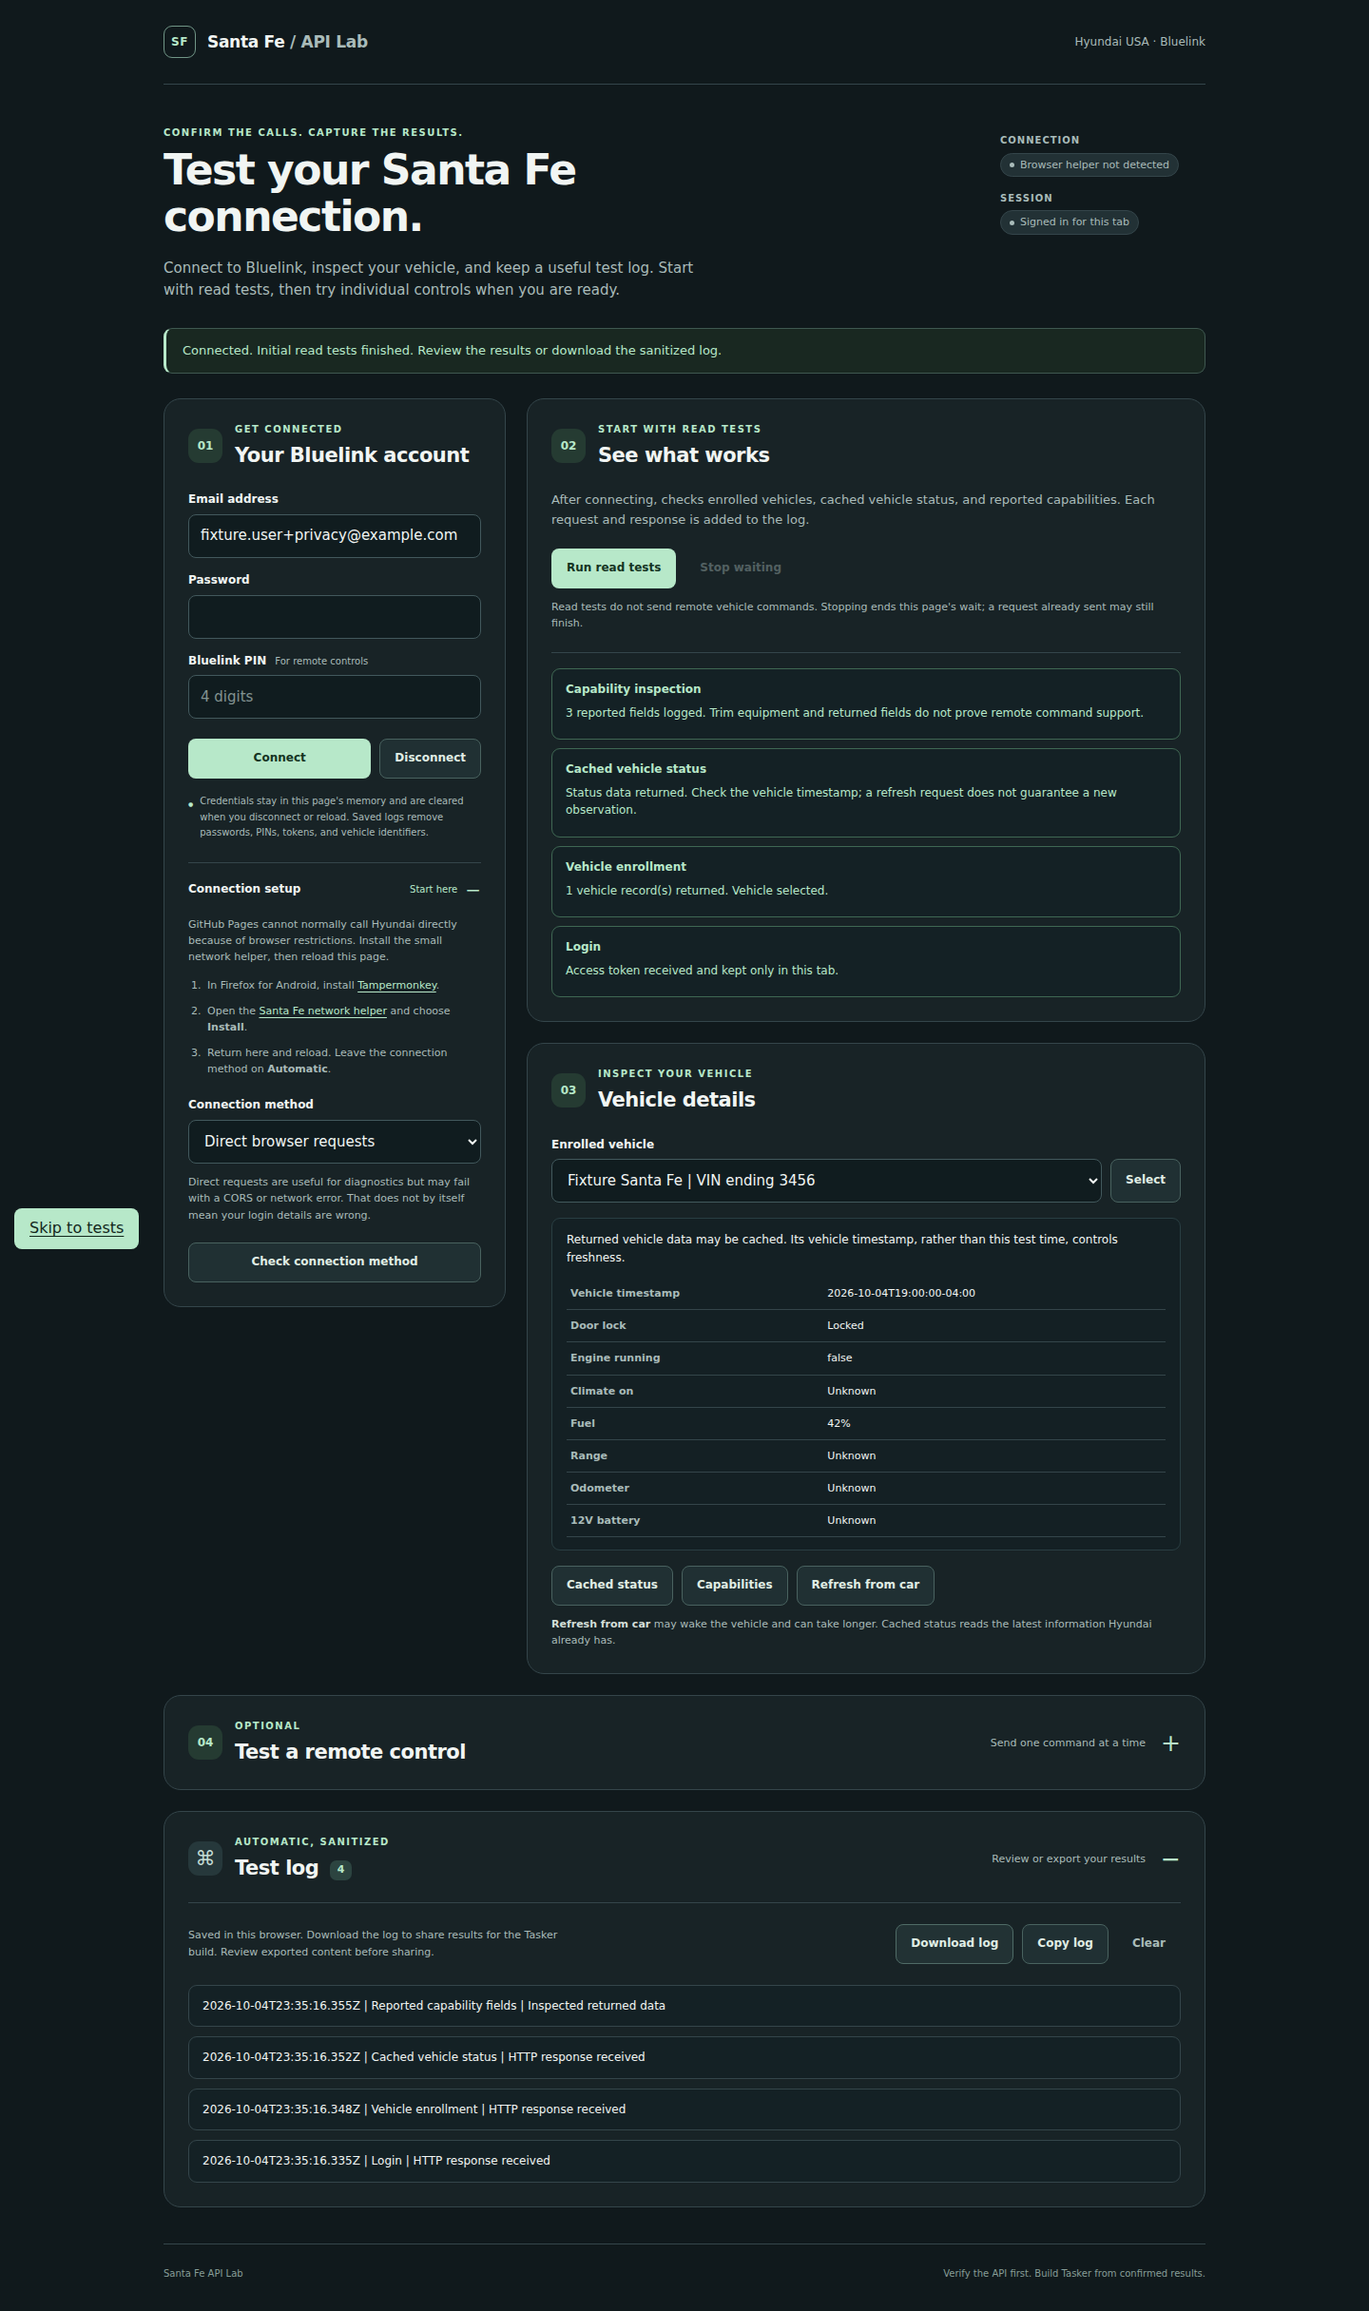
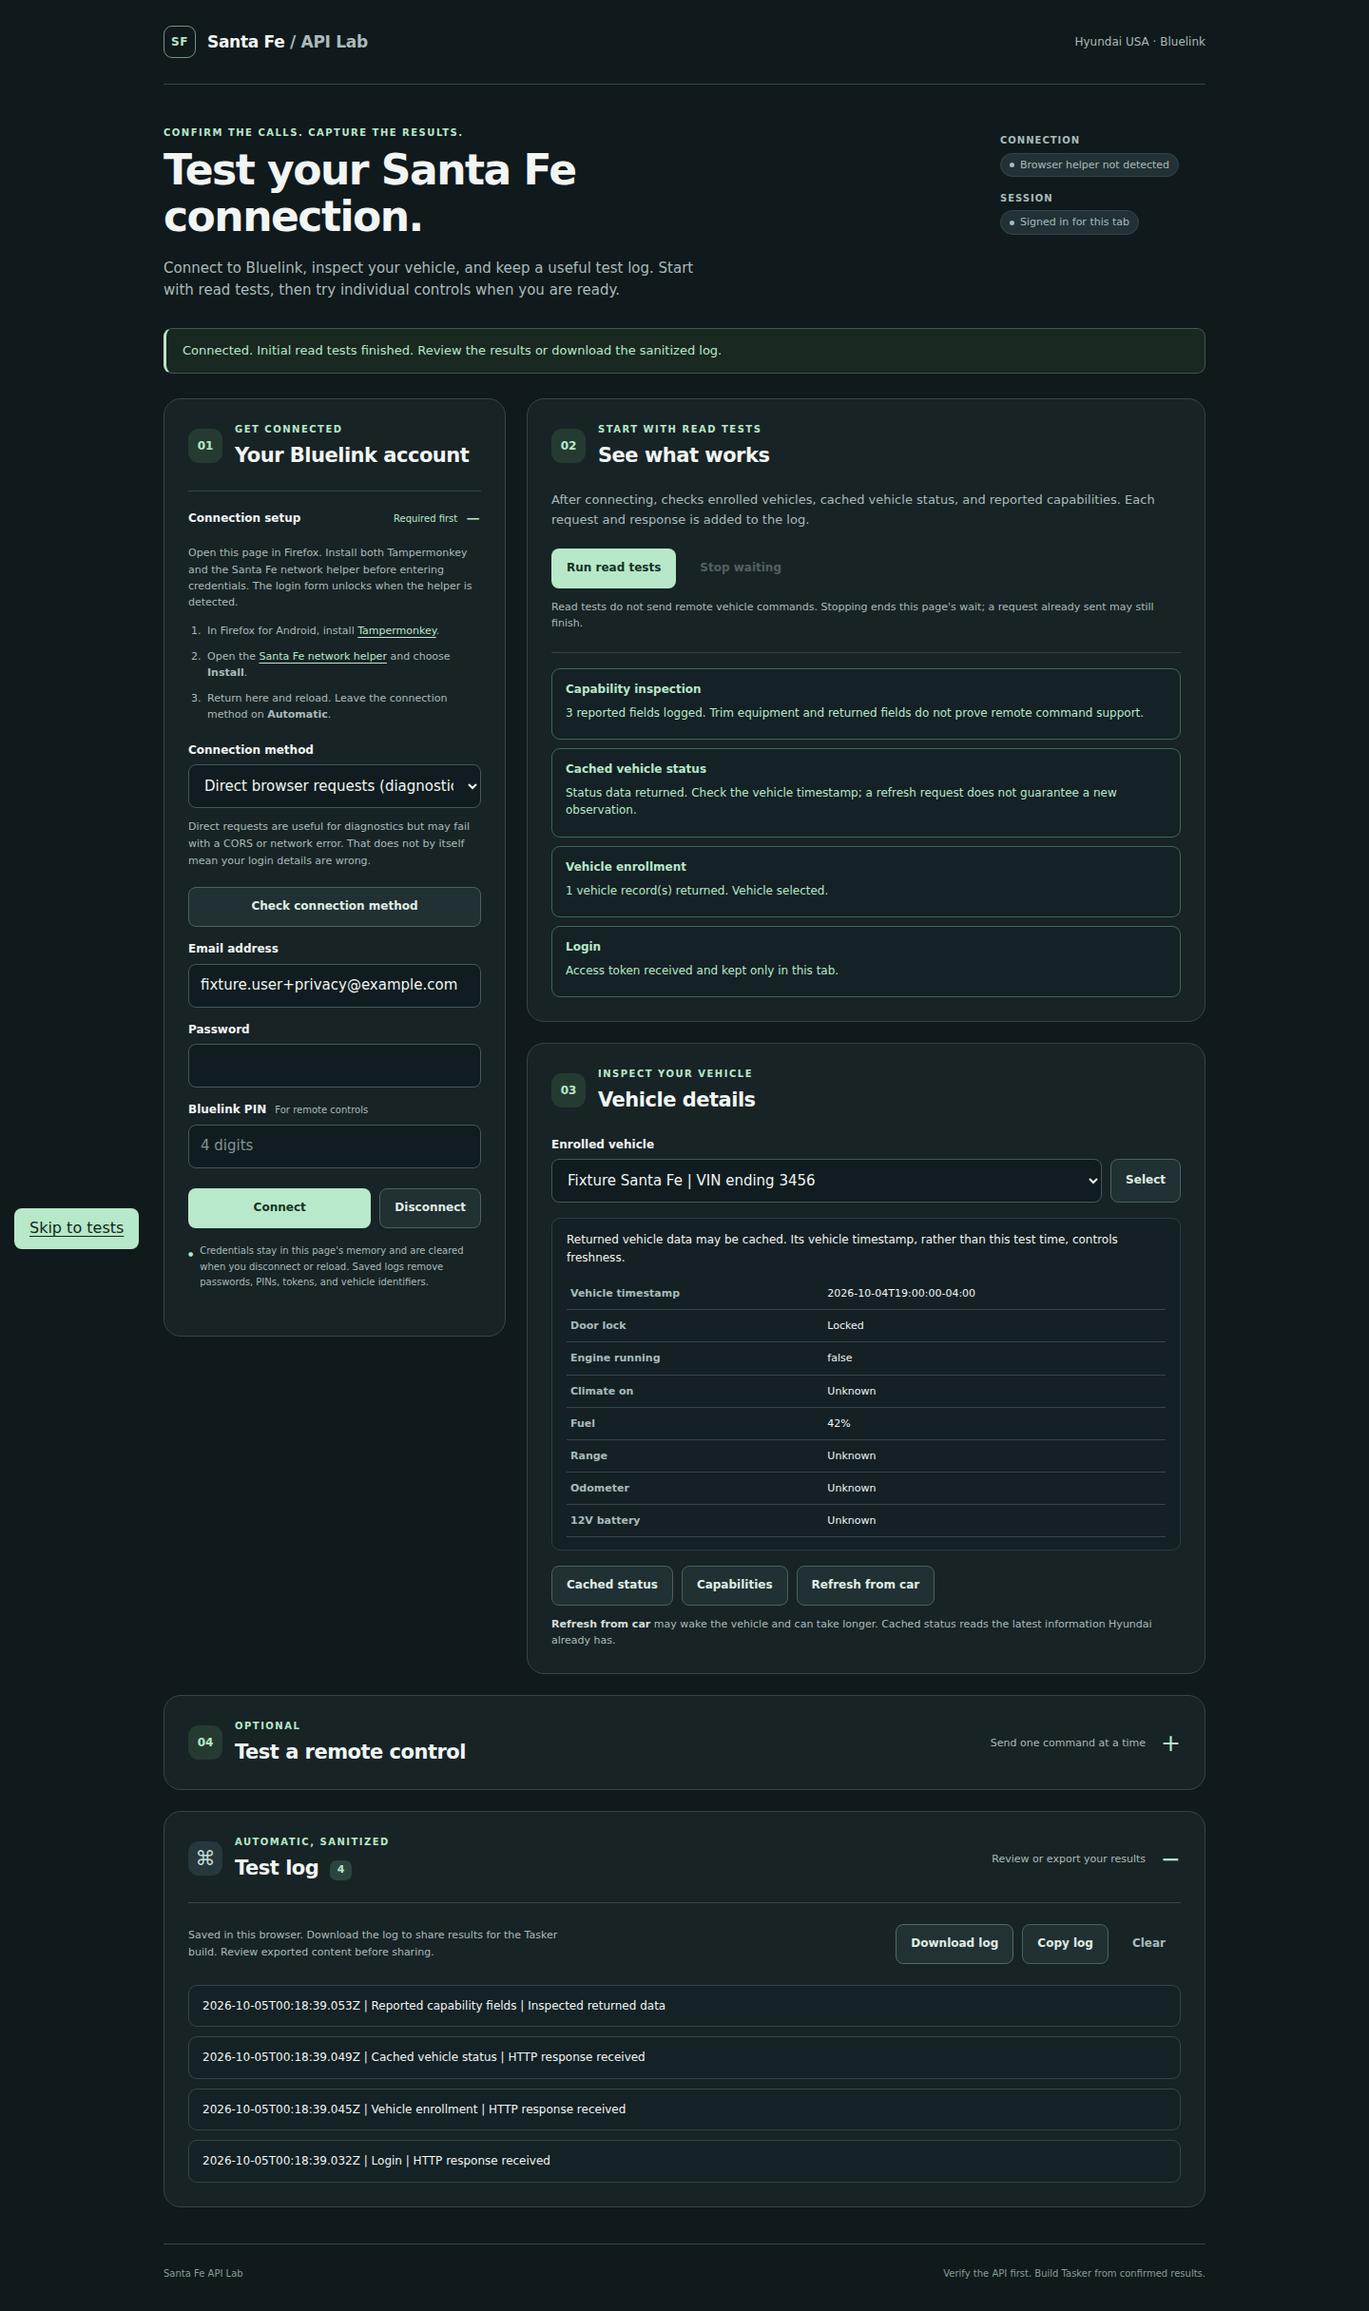
Require Santa Fe browser helper before account login

Changed region(s): [[0.125, 0.216, 0.3438, 0.5553], [0.1875, 0.8638, 0.25, 0.8947]]

diff --git a/SantaFe/diagnostic.js b/SantaFe/diagnostic.js
@@ -5,7 +5,7 @@
   const API = BASE + '/ac/v2/';
   const LOGIN = BASE + '/v2/ac/oauth/token';
   const LOG_KEY = 'santafe-diagnostics-v1';
-  const VERSION = '0.2.0';
+  const VERSION = '0.2.1';
   const SOURCE = '82801884bdf619c5f2a35ff6bbae1693d2e1a3e8';
   const $ = id => document.getElementById(id);
   const sensitive = /password|secret|token|authorization|cookie|pin|vin|regid|registration.?id|username|user.?name|user.?id|login.?id|email|e.?mail|address|phone|mobile|contact|customer|subscriber|owner|first.?name|last.?name|full.?name|nick.?name|birth|latitude|longitude|coord|location|gps|tms.?tid|transaction.?id|^tid$|^xid$|^name$|image|photo|postal|zip.?code|^city$|^state$|street|license|licence|account.?id|person/i;
@@ -67,6 +67,9 @@
   function updateSession() {
     $('sessionStatus').textContent=session?'Signed in for this tab':'Signed out';
     $('transportStatus').textContent=helperAvailable?'Browser helper ready':'Browser helper not detected';
+    const needsHelper=!helperAvailable && $('transportMode').value!=='direct';
+    for(const id of ['email','password','pin','loginBtn'])$(id).disabled=busy || needsHelper;
+    $('loginBtn').textContent=needsHelper?'Install helper first':'Connect';
     if(!busy) {
       $('vehicleSelect').disabled=!session || vehicles.length===0;
       for(const id of ['runReadTestsBtn','selectVehicleBtn']) $(id).disabled=!session;
@@ -76,10 +79,16 @@
       $('disconnectBtn').disabled=!session;
     }
   }
+  function setupNotice() {
+    if(session || busy)return;
+    if(helperAvailable)notice('Browser helper ready. Enter your Bluelink details and tap Connect.','success');
+    else if($('transportMode').value==='direct')notice('Direct mode is for diagnostics. Hyundai blocked this browser request in testing; use Firefox and the helper for login.','warning');
+    else notice('Set up the browser helper before entering your login details. Open this page in Firefox and follow Connection setup below.','warning');
+  }
   window.addEventListener('message',event=>{
     const msg=event.data;
     if(event.source!==window || event.origin!==location.origin || !msg || msg.type!=='SF_HELPER_RESPONSE' || msg.channel!==channel) return;
-    if(msg.id==='hello') {helperAvailable=msg.version==='1';updateSession();return;}
+    if(msg.id==='hello') {helperAvailable=msg.version==='1';updateSession();setupNotice();return;}
     const item=pending.get(msg.id); if(!item)return;
     pending.delete(msg.id); clearTimeout(item.timer); item.cleanup();
     if(msg.error)item.reject(new Error(msg.error));else item.resolve(msg.response);
@@ -89,6 +98,7 @@
 
   async function send(spec,signal) {
     const mode=$('transportMode').value;
+    if(mode!=='direct' && !helperAvailable)throw new Error('Browser helper not detected. In Firefox, install Tampermonkey and the Santa Fe network helper, then reload this page. No request was sent.');
     if(mode==='helper' || (mode==='auto' && helperAvailable)) {
       if(!helperAvailable)throw new Error('Install the browser helper, reload this page, and check that Browser helper ready appears.');
       currentTransport='browser helper';
@@ -183,6 +193,7 @@
     result('Capability inspection',`${paths.length} reported fields logged. Trim equipment and returned fields do not prove remote command support.`);
   }
   async function login() {
+    if($('transportMode').value!=='direct' && !helperAvailable){$('password').value='';$('pin').value='';throw new Error('Install the browser helper in Firefox before signing in. No login request was sent.');}
     if(transaction&&!transaction.done)throw new Error('A command is awaiting confirmation of its outcome. Check its result before starting another session.');
     session=null;selected=null;vehicles=[];enrollment=null;lastStatus=null;statusRead=false;evidence=[];
     const username=$('email').value.trim(),password=$('password').value,pin=$('pin').value.trim();
@@ -257,13 +268,13 @@
   $('capabilitiesBtn').addEventListener('click',()=>task(async()=>capabilities()));
   $('commandBtn').addEventListener('click',()=>task(command));$('pollBtn').addEventListener('click',()=>task(poll));
   $('disconnectBtn').addEventListener('click',disconnect);
-  $('connectionTestBtn').addEventListener('click',()=>task(async()=>{const r=await request('Connection check (no login)','GET',LOGIN,null,{},false,false,true);result('Connection response',`Hyundai returned HTTP ${r.status}. This checks whether a response is readable, not whether your credentials work.`);notice('Connection check logged.');}));
+  $('connectionTestBtn').addEventListener('click',()=>{ping();if(!helperAvailable && $('transportMode').value!=='direct'){setupNotice();return;}task(async()=>{const r=await request('Connection check (no login)','GET',LOGIN,null,{},false,false,true);result('Connection response',`Hyundai returned HTTP ${r.status}. This checks whether a response is readable, not whether your credentials work.`);notice('Connection check logged.');});});
   $('stopBtn').addEventListener('click',()=>{stopped=true;controller?.abort();notice('Stopped locally. A submitted remote command cannot be recalled; no retry will run.','warning');});
   $('downloadLogBtn').addEventListener('click',()=>{const url=URL.createObjectURL(new Blob([report()],{type:'application/json'}));const a=node('a');a.href=url;a.download='SantaFe-test-log-'+new Date().toISOString().replaceAll(':','-')+'.json';a.click();setTimeout(()=>URL.revokeObjectURL(url),1000);});
   $('copyLogBtn').addEventListener('click',async()=>{try{await navigator.clipboard.writeText(report());notice('Sanitized log copied.');}catch{notice('Clipboard unavailable. Use Download log instead.','warning');}});
   $('clearLogBtn').addEventListener('click',()=>{if(!window.confirm('Delete the saved sanitized test log?'))return;logs=[];evidence=[];try{localStorage.removeItem(LOG_KEY);}catch{}renderLog();notice('Saved test log cleared.');});
-  $('transportMode').addEventListener('change',updateSession);
+  $('transportMode').addEventListener('change',()=>{updateSession();setupNotice();});
   try{const saved=JSON.parse(localStorage.getItem(LOG_KEY)||'[]');if(Array.isArray(saved))logs=saved.slice(-150).map(v=>redact(v));}catch{}
   window.addEventListener('pagehide',()=>{session=null;selected=null;vehicles=[];enrollment=null;lastStatus=null;privateValues.clear();for(const id of ['email','password','pin'])$(id).value='';controller?.abort();});
-  renderLog();setBusy(false);
+  renderLog();setBusy(false);setupNotice();
 })();

diff --git a/SantaFe/index.html b/SantaFe/index.html
@@ -30,29 +30,15 @@
         </div>
       </section>
 
-      <div id="notice" class="notice" role="status" aria-live="polite">Enter your Bluelink details to begin. Vehicle controls never run automatically.</div>
+      <div id="notice" class="notice" role="status" aria-live="polite">Complete Connection setup first. The login form unlocks when the browser helper is ready.</div>
 
       <div class="workspace-grid">
         <section class="panel connect-panel" aria-labelledby="connectTitle">
           <div class="panel-heading"><span class="step-number">01</span><div><p class="eyebrow">GET CONNECTED</p><h2 id="connectTitle">Your Bluelink account</h2></div></div>
-          <form id="loginForm">
-            <label for="email">Email address</label>
-            <input id="email" name="email" type="email" autocomplete="username" inputmode="email" autocapitalize="none" spellcheck="false" placeholder="you@example.com" required>
-            <label for="password">Password</label>
-            <input id="password" name="password" type="password" autocomplete="current-password" required>
-            <label for="pin">Bluelink PIN <span class="field-note">For remote controls</span></label>
-            <input id="pin" name="pin" type="password" inputmode="numeric" autocomplete="off" maxlength="4" pattern="[0-9]{4}" placeholder="4 digits">
-            <div class="button-row login-actions">
-              <button id="loginBtn" class="button primary" type="submit">Connect</button>
-              <button id="disconnectBtn" class="button secondary" type="button" disabled>Disconnect</button>
-            </div>
-          </form>
-          <p class="privacy-note"><span class="small-lock" aria-hidden="true">●</span> Credentials stay in this page's memory and are cleared when you disconnect or reload. Saved logs remove passwords, PINs, tokens, and vehicle identifiers.</p>
-
-          <details class="setup-details" open>
-            <summary>Connection setup <span class="details-hint">Start here</span></summary>
+          <details id="connectionSetup" class="setup-details" open>
+            <summary>Connection setup <span class="details-hint">Required first</span></summary>
             <div class="details-body">
-              <p>GitHub Pages cannot normally call Hyundai directly because of browser restrictions. Install the small network helper, then reload this page.</p>
+              <p>Open this page in Firefox. Install both Tampermonkey and the Santa Fe network helper before entering credentials. The login form unlocks when the helper is detected.</p>
               <ol class="setup-steps">
                 <li>In Firefox for Android, install <a href="https://addons.mozilla.org/en-US/android/addon/tampermonkey/" target="_blank" rel="noopener noreferrer">Tampermonkey</a>.</li>
                 <li>Open the <a href="./santafe-network.user.js">Santa Fe network helper</a> and choose <strong>Install</strong>.</li>
@@ -62,12 +48,28 @@
               <select id="transportMode">
                 <option value="auto" selected>Automatic (recommended)</option>
                 <option value="helper">Network helper</option>
-                <option value="direct">Direct browser requests</option>
+                <option value="direct">Direct browser requests (diagnostic only)</option>
               </select>
               <p class="field-help">Direct requests are useful for diagnostics but may fail with a CORS or network error. That does not by itself mean your login details are wrong.</p>
               <button id="connectionTestBtn" class="button secondary full-width" type="button">Check connection method</button>
             </div>
           </details>
+
+          <form id="loginForm">
+            <label for="email">Email address</label>
+            <input id="email" name="email" type="email" disabled autocomplete="username" inputmode="email" autocapitalize="none" spellcheck="false" placeholder="you@example.com" required>
+            <label for="password">Password</label>
+            <input id="password" name="password" type="password" disabled autocomplete="current-password" required>
+            <label for="pin">Bluelink PIN <span class="field-note">For remote controls</span></label>
+            <input id="pin" name="pin" type="password" disabled inputmode="numeric" autocomplete="off" maxlength="4" pattern="[0-9]{4}" placeholder="4 digits">
+            <div class="button-row login-actions">
+              <button id="loginBtn" class="button primary" type="submit" disabled>Install helper first</button>
+              <button id="disconnectBtn" class="button secondary" type="button" disabled>Disconnect</button>
+            </div>
+          </form>
+          <p class="privacy-note"><span class="small-lock" aria-hidden="true">●</span> Credentials stay in this page's memory and are cleared when you disconnect or reload. Saved logs remove passwords, PINs, tokens, and vehicle identifiers.</p>
+
+
         </section>
 
         <div class="test-column">

diff --git a/SantaFe/HANDOFF.md b/SantaFe/HANDOFF.md
@@ -2,7 +2,9 @@
 
 ## Current state
 
-Browser-first API validation is the controlling next step. API Lab 0.2.0 is a static GitHub Pages page at `SantaFe/index.html`, with CSS, client code, and a scoped browser userscript transport. `santafe/index.html` redirects there. The existing 0.1.0 loopback bridge/simulator remains intact.
+Browser-first API validation is the controlling next step. API Lab 0.2.1 is a static GitHub Pages page at `SantaFe/index.html`, with CSS, client code, and a scoped browser userscript transport. `santafe/index.html` redirects there. The existing 0.1.0 loopback bridge/simulator remains intact.
+
+The user's first browser attempt showed "Browser helper not detected" and a failed direct response read. The required setup is now above the login form. Automatic/helper modes lock credentials and Connect until a helper handshake succeeds, and an Enter/programmatic submission cannot send a login without it. Automatic mode no longer falls back to a known-blocked direct request. Direct mode remains an explicitly selected diagnostic option. No account failure or real API capability was inferred from the screenshot.
 
 The original Tasker project imported named tasks but zero actions on Tasker 6.7.6-beta. The generator now matches the native export's `sr`-first action attributes and lexicographic serialized child-slot ordering. It retains 40 tasks, 113 actions, 8 profiles and 10 scenes. This is a corrected import candidate, not a confirmed phone/runtime fix. The broken XML is archived in `tasker/archive/`.
 

diff --git a/SantaFe/docs/TEST_REPORT.md b/SantaFe/docs/TEST_REPORT.md
@@ -1,4 +1,10 @@
-# Current benchmark: API Lab 0.2.0 and Tasker serialization repair
+# Current benchmark: API Lab 0.2.1 helper setup gate
+
+The user's initial browser screenshot showed no helper detected and a failed direct response read. That is a transport/setup failure, not proof of bad credentials. Connection setup now precedes credentials. Automatic/helper modes disable the account form until a valid helper handshake, refuse Enter/programmatic submissions without the helper, and never fall back to direct requests. Explicit Direct mode remains available for diagnostics.
+
+21 adversarial diagnostic tests and ten actual Chromium scenarios pass, including the new missing-helper gate. No unexpected network requests occurred, and all Hyundai responses remain fixtures. Updated results and desktop/mobile screenshots are under `verification/diagnostic-*`. Python and Tasker implementation are unchanged from the 92-test benchmark below; real Firefox/Hyundai login and actual Tasker phone import remain unverified.
+
+## Earlier benchmark: API Lab 0.2.0 and Tasker serialization repair
 
 Verified October 4, 2026:
 

diff --git a/SantaFe/README.md b/SantaFe/README.md
@@ -8,6 +8,8 @@ The page takes your MyHyundai email, password, and four-digit Bluelink service P
 
 On Firefox for Android, install [Tampermonkey](https://addons.mozilla.org/en-US/android/addon/tampermonkey/), then open the page's **Santa Fe network helper** link and choose Install. Reload and check for **Browser helper ready**. Connect, select your vehicle if necessary, and use **Run read tests**. Download the log when finished.
 
+Complete Connection setup above the login form first. In Automatic mode, credentials and Connect stay disabled until the helper is detected. Missing-helper submissions send no login request. Direct browser requests are an explicit diagnostic option, not an automatic fallback.
+
 The helper sends directly from your browser to Hyundai, with a fixed hostname and endpoint allowlist. No hosted proxy, account database, analytics, or Termux setup is required. The ordinary-browser option remains available for diagnostics. An actual credential-free preflight returned HTTP 500 without CORS permission; `no-cors` would not produce readable API results.
 
 ## Vehicle commands
